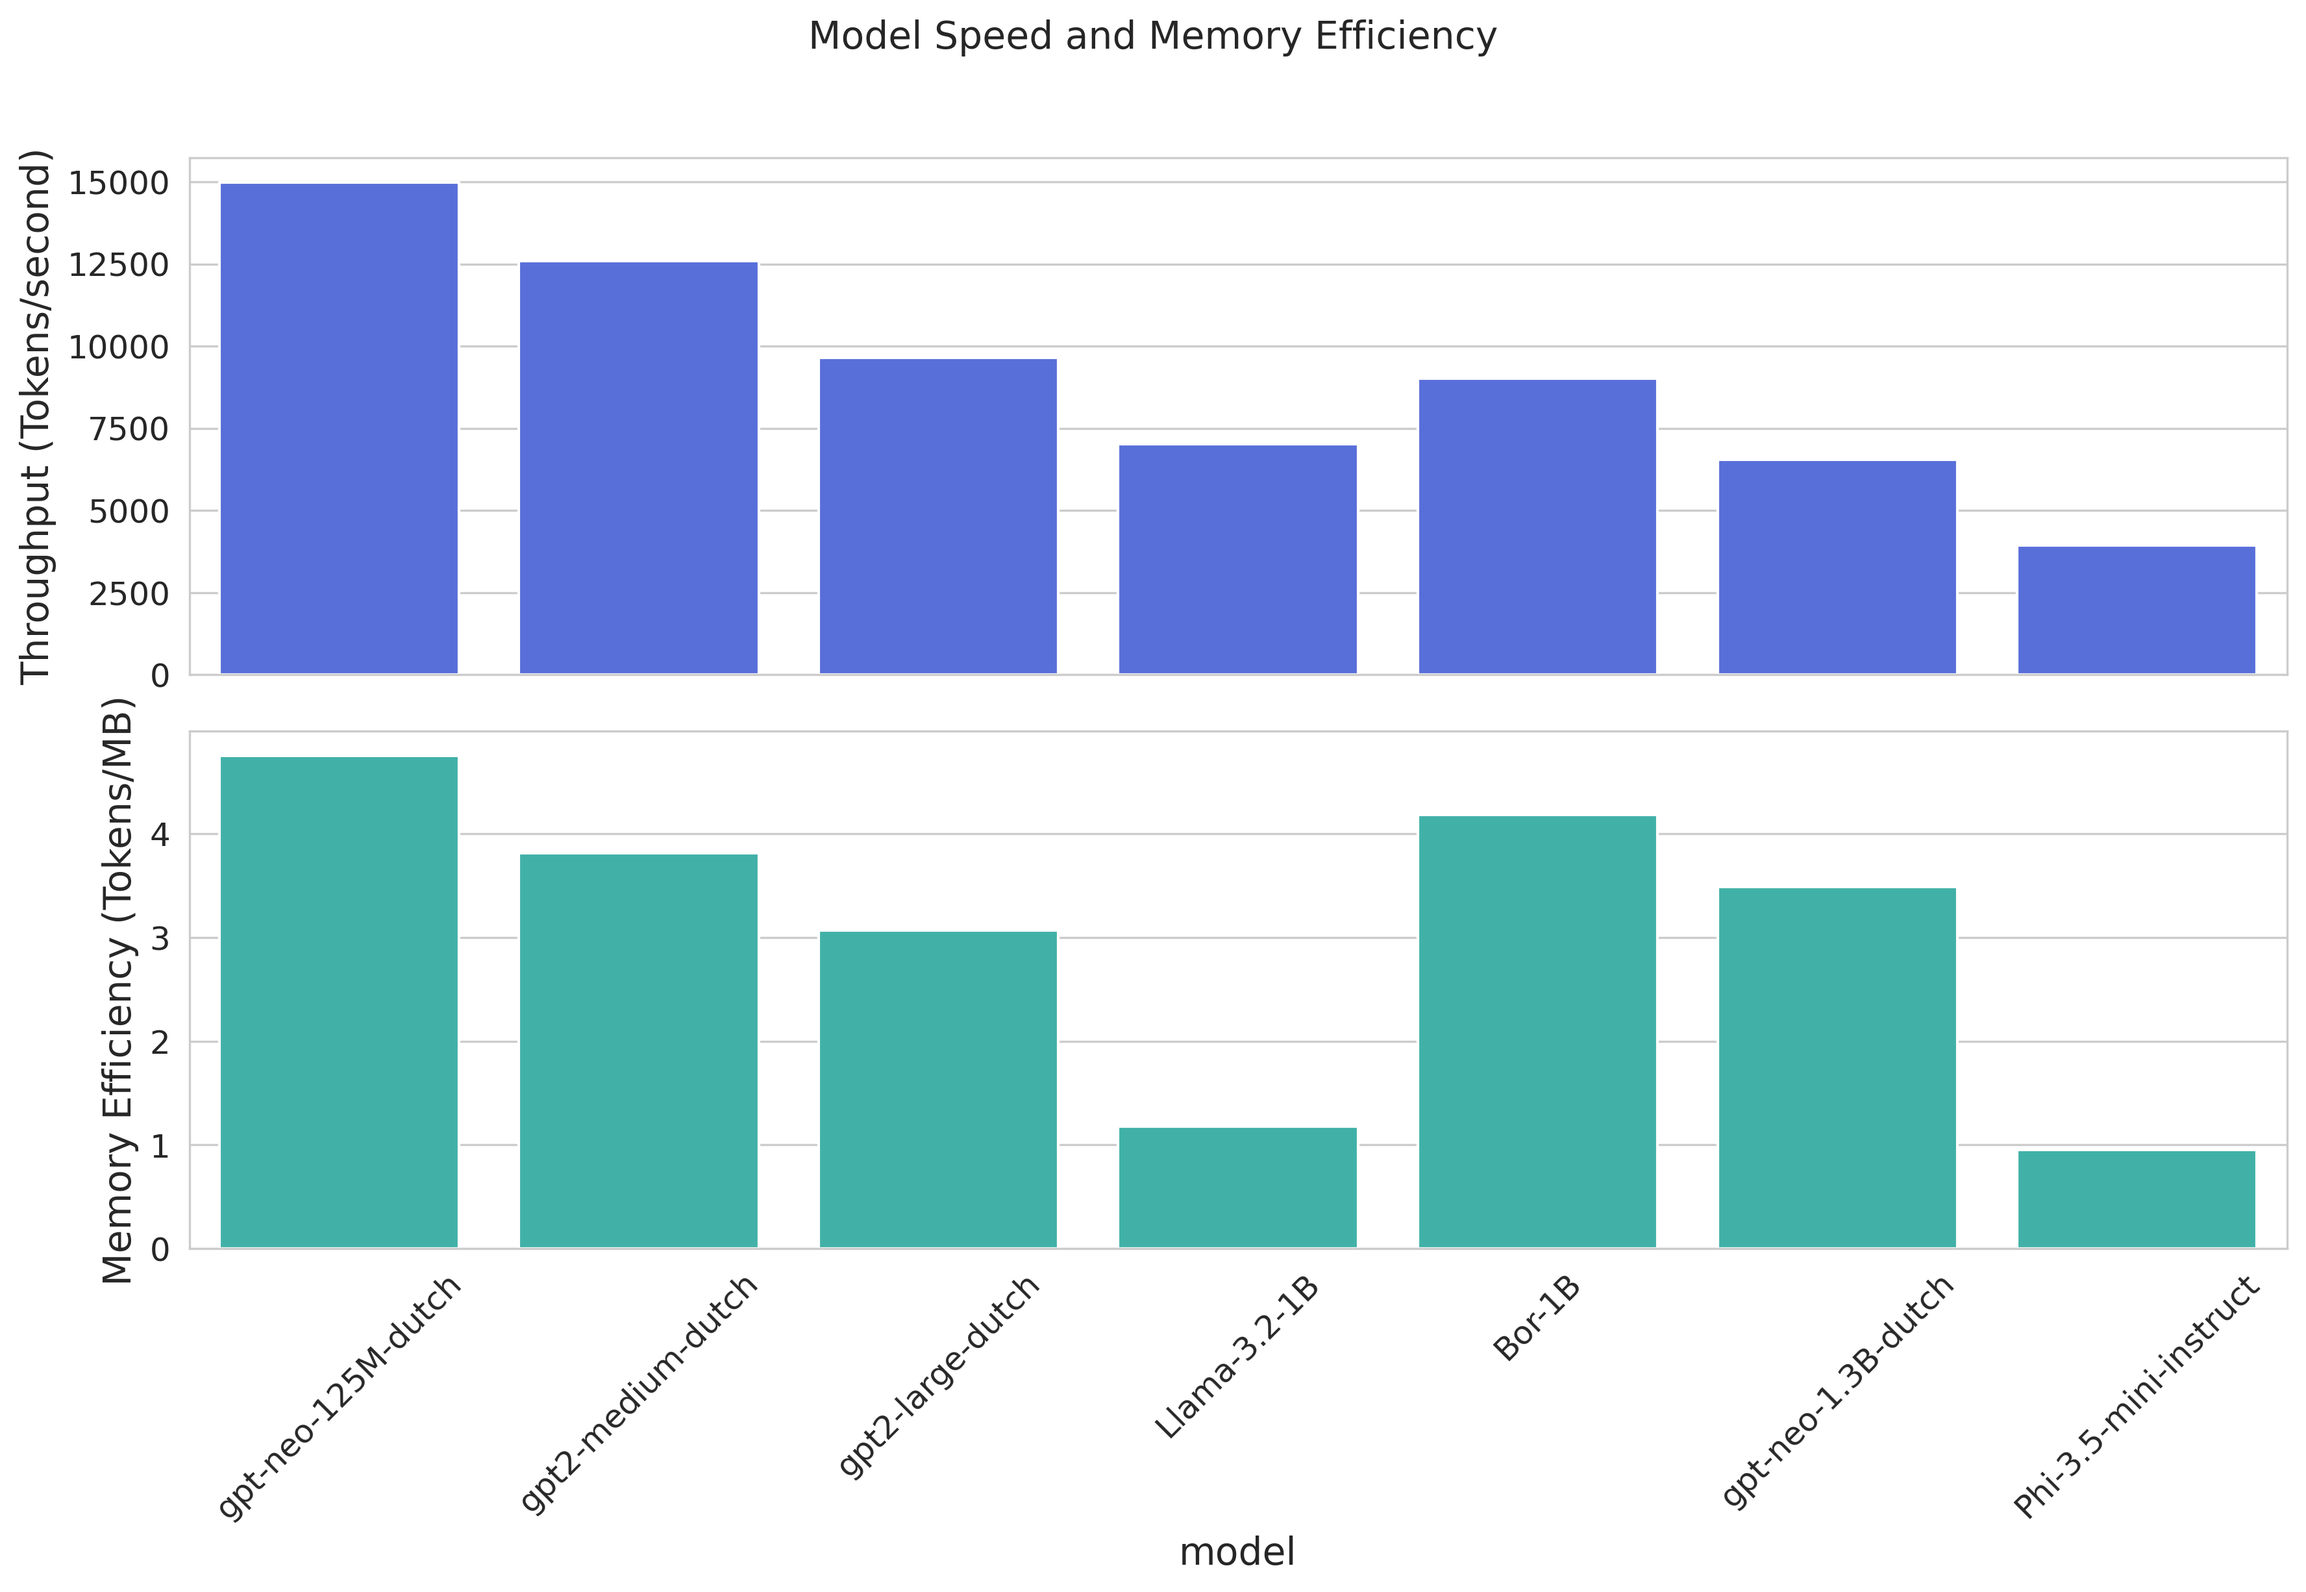
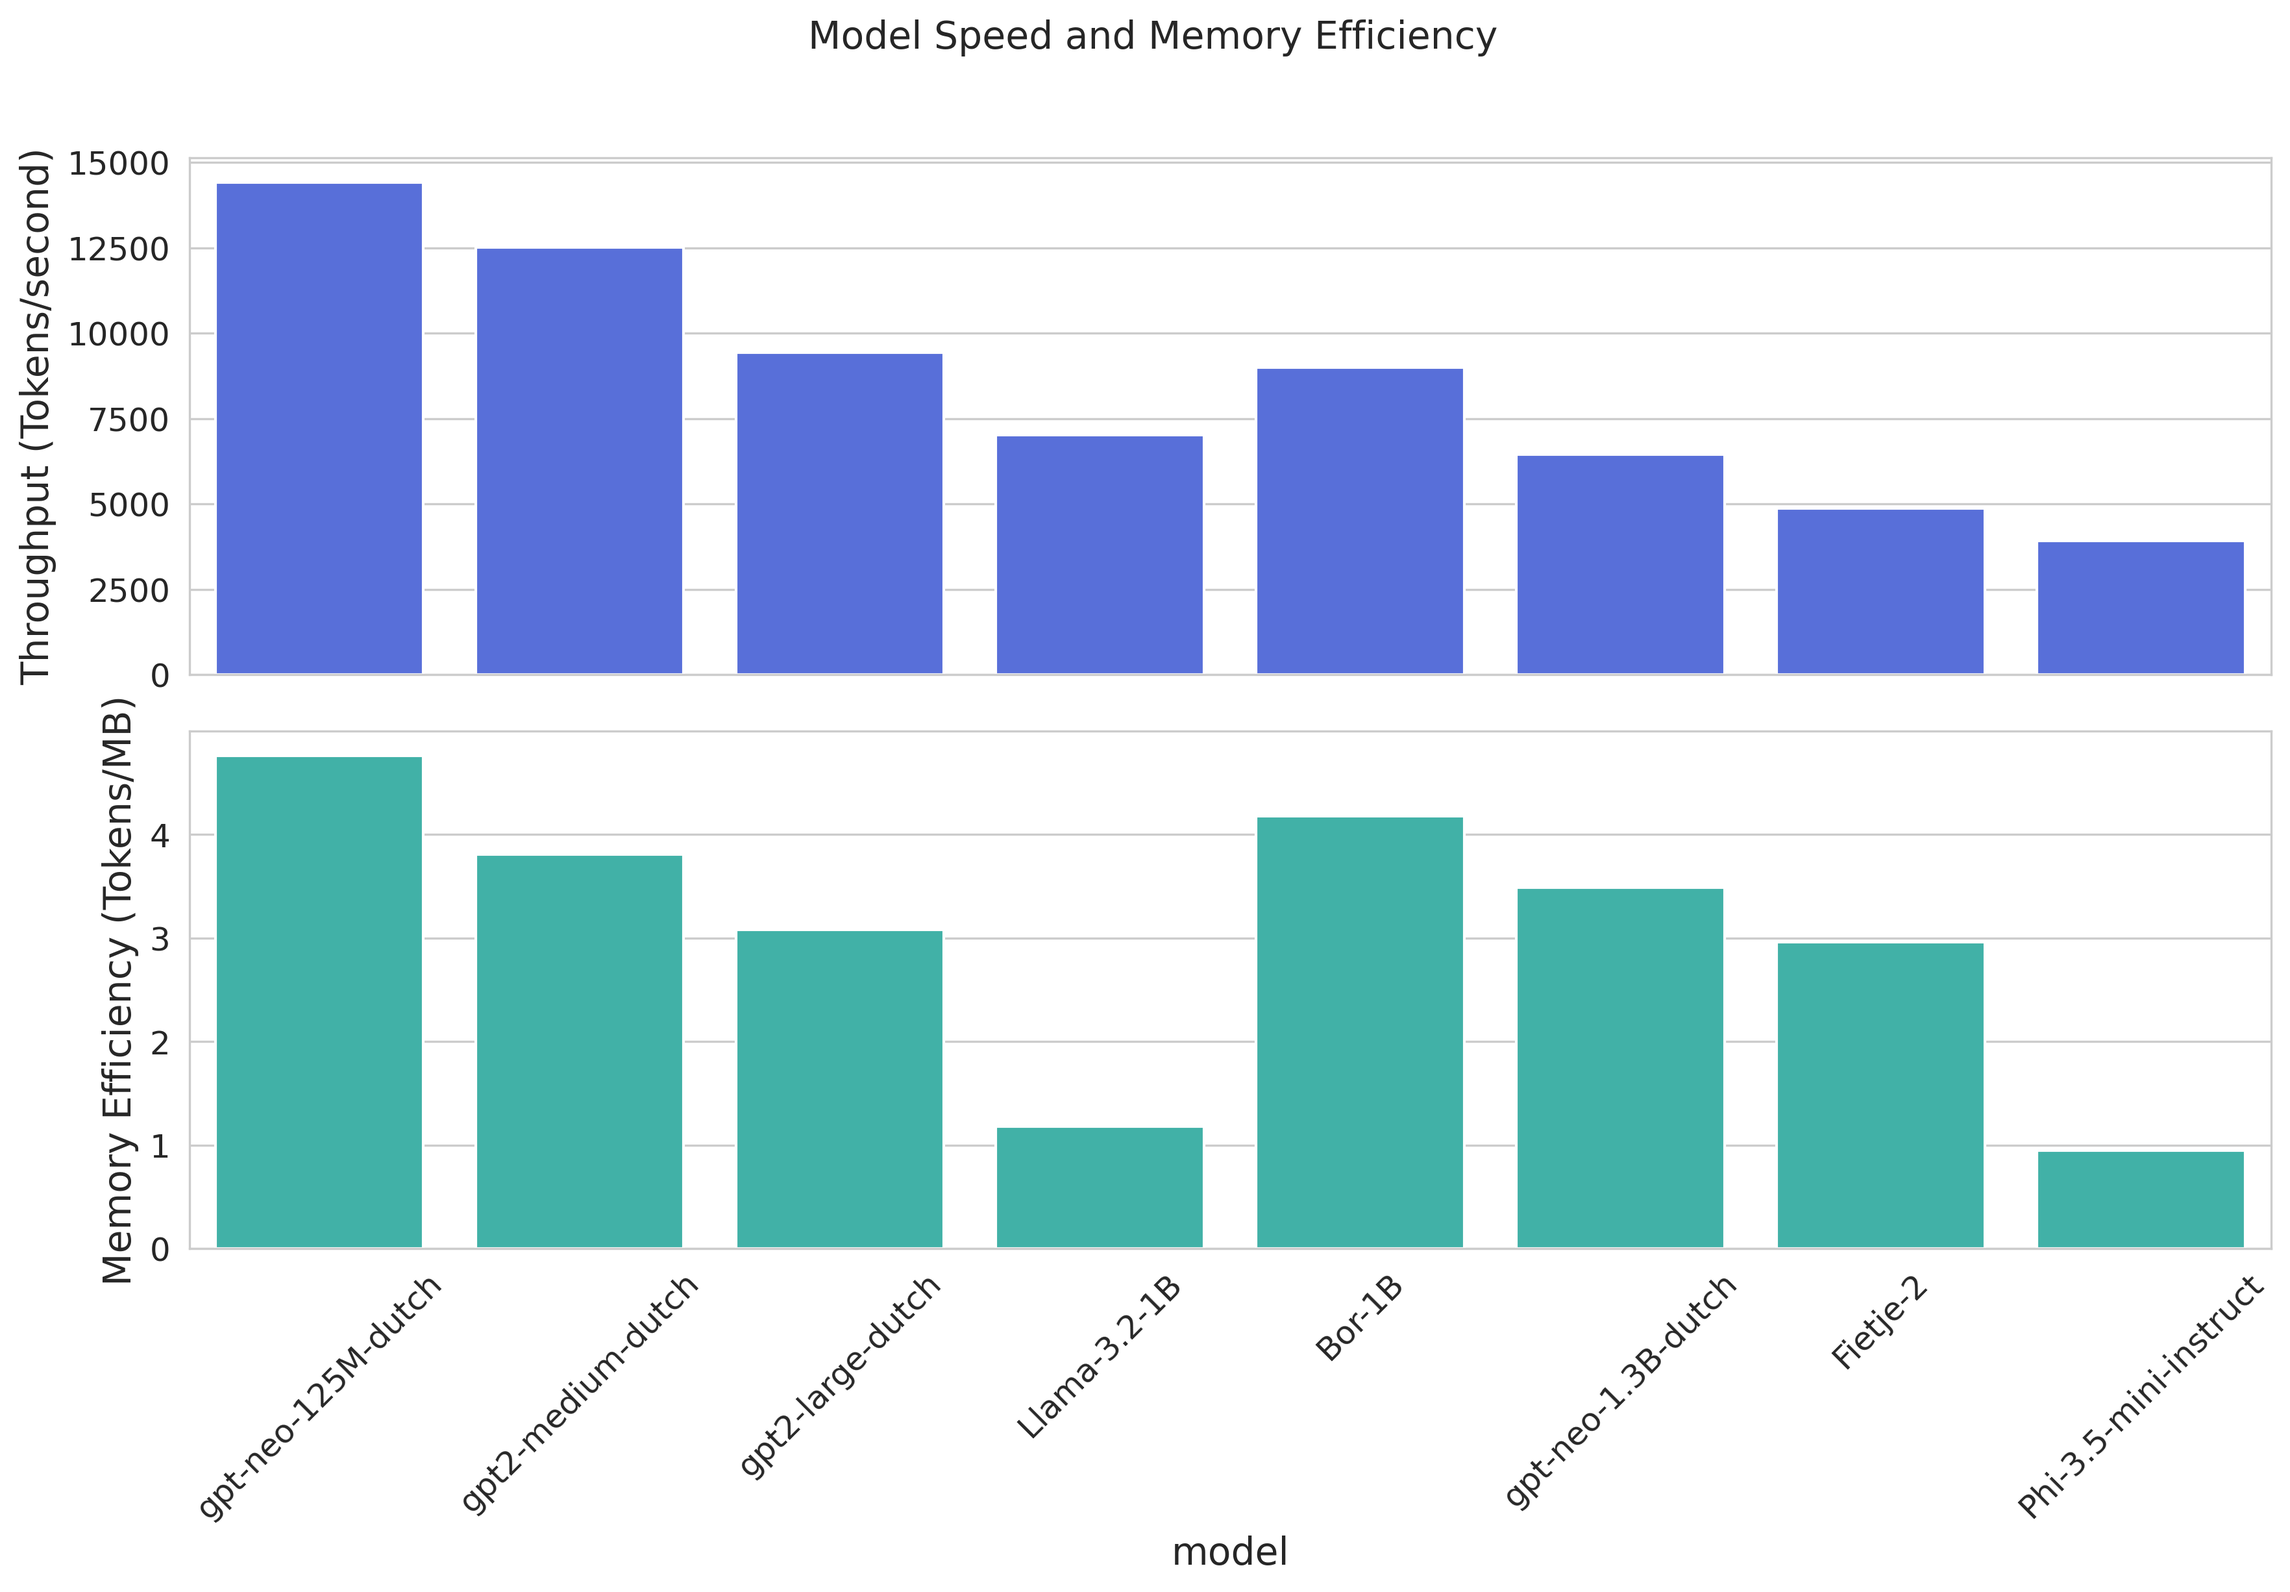
Add Fietje-2 and Fineweb-Edu to the evaluation

diff --git a/src/visualize_perplexity.py b/src/visualize_perplexity.py
@@ -68,7 +68,7 @@ def create_perplexity_distribution_plot(results_dict, output_dir):
     # Process each model's results
     for model_name, results in results_dict.items():
         for dataset_name, data in results.items():
-            if dataset_name in ['culturax_nl', 'mc4_nl']:
+            if dataset_name in ['culturax_nl', 'mc4_nl', 'fineweb_edu_4']:
                 if not isinstance(data, dict) or 'perplexities' not in data:
                     continue
                     
@@ -114,11 +114,16 @@ def create_perplexity_distribution_plot(results_dict, output_dir):
         'Llama-3.2-1B',
         'Bor-1B',
         'gpt-neo-1.3B-dutch',
+        'Fietje-2',
         'Phi-3.5-mini-instruct'
     ]
 
-    # Filter df to only include models in the order list
+    # Define dataset order (top to bottom in plot)
+    dataset_order = ['mc4_nl', 'culturax_nl', 'fineweb_edu_4']
+    
+    # Set categorical ordering for both model and dataset
     df['model'] = pd.Categorical(df['model'], categories=model_order, ordered=True)
+    df['dataset'] = pd.Categorical(df['dataset'], categories=dataset_order, ordered=True)
     
     # Increase font sizes
     plt.rcParams.update({
@@ -151,7 +156,8 @@ def create_perplexity_distribution_plot(results_dict, output_dir):
     # Define dataset names mapping
     dataset_names = {
         'mc4_nl': 'MC4 NL Cleaned',
-        'culturax_nl': 'CulturaX NL'
+        'culturax_nl': 'CulturaX NL',
+        'fineweb_edu_4': 'Fineweb Edu'
     }
     
     # Update row titles directly
@@ -187,6 +193,7 @@ def create_performance_comparison(results_dict, output_dir):
         'Llama-3.2-1B',
         'Bor-1B',
         'gpt-neo-1.3B-dutch',
+        'Fietje-2',
         'Phi-3.5-mini-instruct'
     ]
     

diff --git a/src/evaluate_perplexity.py b/src/evaluate_perplexity.py
@@ -326,8 +326,9 @@ def calculate_perplexities(model, tokenizer, dataset, context_length, stride=Non
 def main():
     print("Loading datasets...")
     datasets = {
+        'fineweb_edu_4': load_dataset('yhavinga/fineweb_edu_score_gt_4_test', split='test', num_proc=16),
         'mc4_nl': load_dataset('yhavinga/mc4_nl_cleaned', 'tiny', split='validation[:1000]', num_proc=16),
-        'culturax_nl': load_dataset('yhavinga/culturax_dutch_test', split='train', num_proc=16)
+        'culturax_nl': load_dataset('yhavinga/culturax_dutch_test', split='train', num_proc=16),
     }
 
     models = {
@@ -338,6 +339,7 @@ def main():
         'gpt-neo-1.3B-dutch': {"path": "yhavinga/gpt-neo-1.3B-dutch", "context_length": 512},
         'Llama-3.2-1B': {"path": "meta-llama/Llama-3.2-1B", "context_length": 4096},
         'Phi-3.5-mini-instruct': {"path": "microsoft/Phi-3.5-mini-instruct", "context_length": 4096},
+        'Fietje-2': {"path": "BramVanroy/fietje-2", "context_length": 4096},
     }
 
     model_kwargs = {

diff --git a/docs/model-cards/Bor-1B.md b/docs/model-cards/Bor-1B.md
@@ -106,11 +106,11 @@ Training required multiple restarts due to software and infrastructure constrain
 
 ## Perplexity Evaluation
 
-The model's perplexity was evaluated on MC4 NL Cleaned and CulturaX NL sets, measuring both token-level and word-level perplexity. Word-level perplexity accounts for subword tokenization by averaging log probabilities across tokens within whitespace-delimited words. The violin plots show Bor-1B achieves competitive perplexity distributions compared to similarly-sized models, with median token perplexities around 15 on both datasets.
+The model's perplexity was evaluated on MC4 NL Cleaned, CulturaX NL and Fineweb Edu sets, measuring both token-level and word-level perplexity. Word-level perplexity accounts for subword tokenization by averaging log probabilities across tokens within whitespace-delimited words. The violin plots show Bor-1B achieves competitive perplexity distributions compared to similarly-sized models, with median token perplexities around 15 on both datasets.
 
 ![Perplexity Distribution Across Models](perplexity_distribution.png)
 
-The violin plots above show perplexity distributions across different models on both MC4 NL Cleaned and CulturaX NL validation sets. Several interesting patterns emerge:
+The violin plots above show perplexity distributions across different models and datasets. Several interesting patterns emerge:
 
   - Bor-1B achieves lower median perplexities than the older gpt2 dutch models.
   - The distribution is notably tighter than the GPT-2 family models, indicating more consistent performance across different text samples
@@ -119,7 +119,8 @@ The violin plots above show perplexity distributions across different models on 
   - This pattern likely reflects different tokenization strategies: multilingual models may use more subword tokens per Dutch word, leading to different word-level perplexity characteristics
   - Bor-1B demonstrates comparable word-level perplexities compared to Llama-3.2-1B
   - This suggests that Llama's lower token-level perplexity may be due to using more subword tokens per Dutch word, where predicting continuation tokens is typically easier than predicting initial word tokens
-  - Phi3.5-mini-instruct shows the lowest token and word-level complexity of all tested models, though this model is also ~3x larger than the other ~1B parameter models
+  - Fietje-2 (2.7B) shows the lowest token and word-level complexity of all tested models on Dutch.
+  - Phi3.5-mini-instruct (3.5B) shows the lowest token and word-level complexity on Fineweb Edu.
 
 ## Speed and Memory Efficiency
 
@@ -147,7 +148,6 @@ Full evaluation methodology: [evaluation script](https://github.com/yhavinga/bor
 - Best performance achieved when full context/information is provided in the prompt
 - Performance may vary between Dutch and English
 - Domain-specific performance depends on training data distribution
-- Model behaviors inherit biases present in training data
 - Architectural choice of maintaining 32 layers results in suboptimal inference speed for the parameter count
 - As parts of the training data (CulturaX, MC4) are derived from CommonCrawl, the model may have been exposed to personal or sensitive information despite cleaning efforts
 
